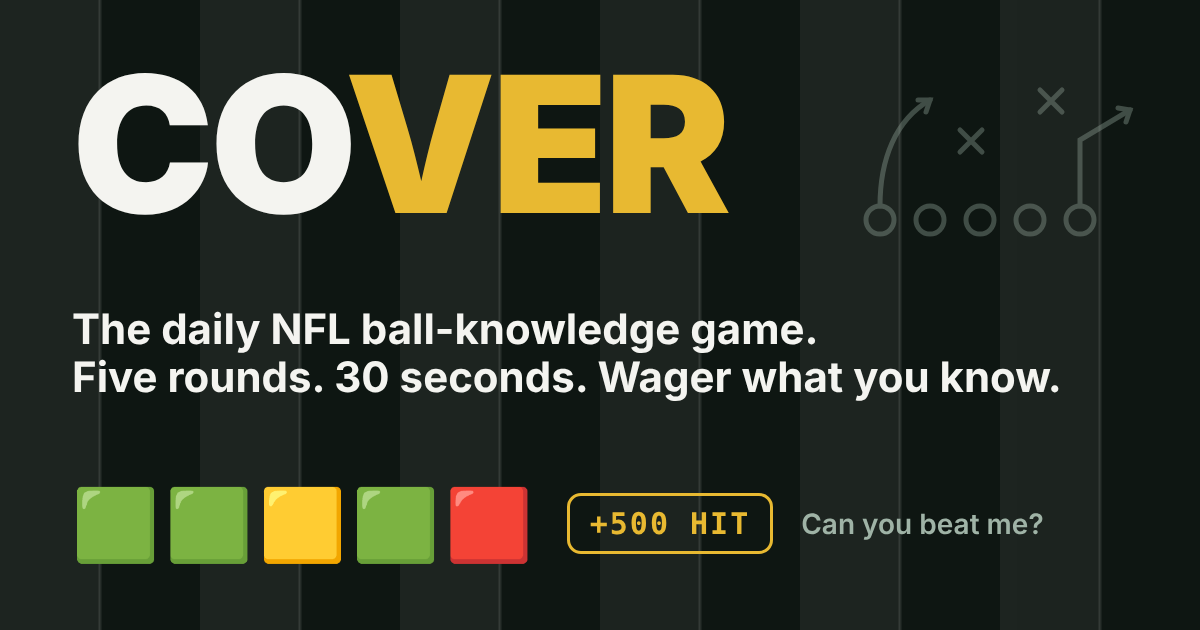
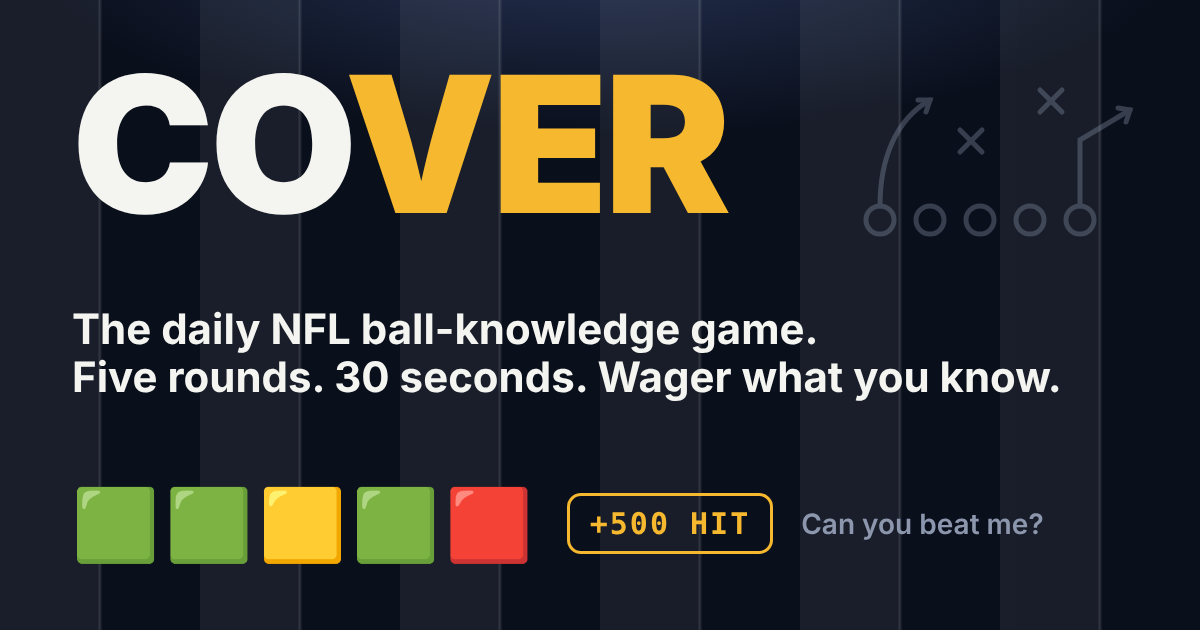
Prime Time redesign: navy/gold/red, three-column desktop layout, ticker, big topic cards
Claude-Session: https://claude.ai/code/session_01CGM4XPc1bFy9Xcp8oz63WN

Changed region(s): [[0.185, 0.0, 0.8325, 0.1508], [0.6475, 0.8143, 0.8633, 0.8444]]

diff --git a/index.html b/index.html
@@ -61,25 +61,33 @@ window.COVER_CONFIG = { supabaseUrl: "https://koiuilmpihaflgnlitxl.supabase.co",
 <style>
 /* Layout: stadium scoreboard with the Ball Knowledge Score, then the Daily Five (and on game days the Slate), then the leaderboard */
 :root{
-  --bg:#E9ECE4; --slip:#FFFFFF; --ink:#141A15; --muted:#5A645C; --line:#D3D8CD;
-  --turf:#1E6B3B; --turf-ink:#F4F7F1; --gold:#9A6F00; --gold-bg:#F3D27A; --gold-ink:#2B1F00; --red:#C2352E; --blue:#2F5FB8; --amber:#B7791F;
-  --board:#132018; --board-ink:#F1F4EE; --board-dim:#8FA394; --board-line:#2E3D33; --board-gold:#EDBC45;
+  --bg:#0A0F1C; --slip:#121A2B; --slip2:#0E1524; --ink:#F2F4F8; --muted:#8C97AD; --line:#24304A;
+  --turf:#2BD27B; --turf-ink:#04140B; --gold:#F5B82E; --gold-bg:#F5B82E; --gold-ink:#1F1500; --red:#FF4D5E; --blue:#4C8DFF; --amber:#FFB547;
+  --board:#070B16; --board-ink:#F2F4F8; --board-dim:#7D89A3; --board-line:#1E2A42; --board-gold:#F5B82E; color-scheme:dark;
   --display:"Big Shoulders Display", "Impact", "Arial Narrow", sans-serif;
   --body:"Barlow", system-ui, -apple-system, "Segoe UI", sans-serif;
   --mono:"JetBrains Mono", ui-monospace, "Courier New", monospace;
 }
+/* Prime Time is a night-game look in both light and dark system modes */
 @media (prefers-color-scheme: dark){ :root:not([data-theme="light"]){
-  --bg:#0D130F; --slip:#151D17; --ink:#E9EEE8; --muted:#97A59A; --line:#27332A;
-  --turf:#3E9E62; --turf-ink:#07120A; --gold:#EDBC45; --gold-bg:#EDBC45; --gold-ink:#251A00; --red:#EE6B62; --blue:#7FA6F0; --amber:#E9B04F;
-  --board:#060A07; --board-ink:#F1F4EE; --board-dim:#7F9384; --board-line:#22302A; --board-gold:#EDBC45; color-scheme:dark }}
-:root[data-theme="dark"]{
-  --bg:#0D130F; --slip:#151D17; --ink:#E9EEE8; --muted:#97A59A; --line:#27332A;
-  --turf:#3E9E62; --turf-ink:#07120A; --gold:#EDBC45; --gold-bg:#EDBC45; --gold-ink:#251A00; --red:#EE6B62; --blue:#7FA6F0; --amber:#E9B04F;
-  --board:#060A07; --board-ink:#F1F4EE; --board-dim:#7F9384; --board-line:#22302A; --board-gold:#EDBC45; color-scheme:dark }
+  --bg:#0A0F1C; --slip:#121A2B; --slip2:#0E1524; --ink:#F2F4F8; --muted:#8C97AD; --line:#24304A;
+  --turf:#2BD27B; --turf-ink:#04140B; --gold:#F5B82E; --gold-bg:#F5B82E; --gold-ink:#1F1500; --red:#FF4D5E; --blue:#4C8DFF; --amber:#FFB547;
+  --board:#070B16; --board-ink:#F2F4F8; --board-dim:#7D89A3; --board-line:#1E2A42; --board-gold:#F5B82E; color-scheme:dark;}}
+:root[data-theme="dark"],:root[data-theme="light"]{
+  --bg:#0A0F1C; --slip:#121A2B; --slip2:#0E1524; --ink:#F2F4F8; --muted:#8C97AD; --line:#24304A;
+  --turf:#2BD27B; --turf-ink:#04140B; --gold:#F5B82E; --gold-bg:#F5B82E; --gold-ink:#1F1500; --red:#FF4D5E; --blue:#4C8DFF; --amber:#FFB547;
+  --board:#070B16; --board-ink:#F2F4F8; --board-dim:#7D89A3; --board-line:#1E2A42; --board-gold:#F5B82E; color-scheme:dark;}
 
 *{box-sizing:border-box}
 [hidden]{display:none!important}
-body{background:var(--bg);color:var(--ink);font-family:var(--body);font-size:16px;line-height:1.5;
+body{background:
+    radial-gradient(ellipse 70% 38% at 50% -6%, rgba(122,160,255,.20), transparent 70%),
+    radial-gradient(ellipse 30% 30% at 8% -4%, rgba(255,255,255,.08), transparent 70%),
+    radial-gradient(ellipse 30% 30% at 92% -4%, rgba(255,255,255,.08), transparent 70%),
+    repeating-linear-gradient(90deg, transparent 0 159px, rgba(255,255,255,.045) 159px 161px),
+    repeating-linear-gradient(90deg, rgba(255,255,255,.014) 0 80px, transparent 80px 160px),
+    var(--bg);
+  min-height:100vh;color:var(--ink);font-family:var(--body);font-size:16px;line-height:1.5;
   padding-left:max(16px, env(safe-area-inset-left, 0px));padding-right:max(16px, env(safe-area-inset-right, 0px));padding-block:18px 56px}
 .wrap{max-width:620px;margin:0 auto;display:flex;flex-direction:column;gap:16px}
 .board{background:var(--board);color:var(--board-ink);border-radius:16px;padding:16px;display:grid;gap:12px;position:relative;overflow:hidden}
@@ -108,26 +116,26 @@ h1 span{color:var(--board-gold)}
 .cell small{display:block;font:700 10px var(--body);letter-spacing:.16em;text-transform:uppercase;color:var(--board-dim)}
 .cell b{font:700 clamp(16px,4.6vw,21px) var(--mono);font-variant-numeric:tabular-nums;color:var(--board-ink);white-space:nowrap}
 .disclaim{margin:0;font-size:12px;color:var(--board-dim)}
-.tabs{display:flex;gap:6px;background:var(--slip);border:1px solid var(--line);border-radius:12px;padding:4px}
+.tabs{display:flex;gap:6px;background:var(--slip2);border:1px solid var(--line);border-radius:12px;padding:4px}
 .tab{flex:1;appearance:none;border:0;background:transparent;color:var(--muted);border-radius:9px;padding:10px;font:700 15px var(--body);cursor:pointer}
-.tab[aria-selected="true"]{background:var(--ink);color:var(--bg)}
-.card{background:var(--slip);border:1px solid var(--line);border-radius:16px;padding:18px 16px;display:grid;gap:14px}
+.tab[aria-selected="true"]{background:var(--gold-bg);color:var(--gold-ink)}
+.card{background:linear-gradient(180deg,var(--slip),var(--slip2));border:1px solid var(--line);box-shadow:0 10px 30px rgba(0,0,0,.25);border-radius:16px;padding:18px 16px;display:grid;gap:14px}
 .card h2{font-family:var(--display);font-weight:900;font-size:30px;text-transform:uppercase;margin:0;line-height:1}
 .eyebrow{font:700 12px var(--mono);letter-spacing:.14em;text-transform:uppercase;color:var(--muted);display:flex;justify-content:space-between;gap:8px;flex-wrap:wrap}
 .pips{display:flex;gap:5px}
 .pip{width:22px;height:6px;border-radius:3px;background:var(--line)}
-.pip.g{background:var(--turf)} .pip.y{background:var(--amber)} .pip.r{background:var(--red)} .pip.now{background:var(--ink)}
+.pip.g{background:var(--turf)} .pip.y{background:var(--amber)} .pip.r{background:var(--red)} .pip.now{background:var(--gold)}
 .cat{font-family:var(--display);font-weight:900;font-size:clamp(40px,12vw,64px);line-height:.9;text-transform:uppercase;text-align:center;margin:6px 0;letter-spacing:.01em}
 .catsub{text-align:center;color:var(--muted);margin:0}
 .wagers{display:grid;grid-template-columns:repeat(5,1fr);gap:6px}
 .wager{appearance:none;border:2px solid var(--line);background:var(--bg);color:var(--ink);border-radius:12px;padding:12px 2px;font:700 clamp(14px,4vw,18px) var(--mono);cursor:pointer;font-variant-numeric:tabular-nums}
 @media (hover:hover){.wager:hover:not(:disabled){border-color:var(--ink)}}
-.wager.max{border-color:var(--gold);color:var(--gold)}
+.wager.max{border-color:var(--gold);color:var(--gold);box-shadow:0 0 0 1px var(--gold) inset}
 .wager:disabled{opacity:.25;cursor:default;text-decoration:line-through}
-.wager[aria-pressed="true"]{background:var(--ink);color:var(--bg);border-color:var(--ink)}
+.wager[aria-pressed="true"]{background:var(--gold-bg);color:var(--gold-ink);border-color:var(--gold-bg)}
 .q{font-family:var(--display);font-weight:700;font-size:clamp(24px,6.5vw,30px);line-height:1.1;margin:0;text-wrap:balance}
 .timer{height:8px;border-radius:4px;background:var(--line);overflow:hidden}
-.timer i{display:block;height:100%;width:100%;background:var(--turf);transform-origin:left}
+.timer i{display:block;height:100%;width:100%;background:var(--ink);transform-origin:left}
 .timer i.low{background:var(--red)}
 .tleft{font:700 13px var(--mono);color:var(--muted);text-align:right;font-variant-numeric:tabular-nums}
 .opts{display:grid;gap:8px}
@@ -143,7 +151,7 @@ h1 span{color:var(--board-gold)}
 .card,.card>*{min-width:0}
 html,body{max-width:100%;overflow-x:hidden}
 .numrow input{flex:1 1 0;width:0;min-width:0;font:700 26px var(--mono);text-align:center;padding:12px;border-radius:12px;border:2px solid var(--line);background:var(--bg);color:var(--ink)}
-.numrow input:focus{outline:none;border-color:var(--turf)}
+.numrow input:focus{outline:none;border-color:var(--gold)}
 .verdict{font-family:var(--display);font-weight:900;font-size:clamp(34px,10vw,48px);text-transform:uppercase;line-height:.95;margin:0;text-align:center}
 .verdict.g{color:var(--turf)} .verdict.y{color:var(--amber)} .verdict.r{color:var(--red)}
 .roast{text-align:center;margin:0;font-weight:600}
@@ -153,7 +161,7 @@ html,body{max-width:100%;overflow-x:hidden}
 .crowdline{font-size:14px;color:var(--muted);margin:0;text-align:center}
 .btns{display:flex;gap:8px;flex-wrap:wrap;justify-content:center}
 .btn{appearance:none;border:1px solid var(--line);background:transparent;color:var(--ink);border-radius:12px;padding:13px 20px;font:700 16px var(--body);cursor:pointer}
-.btn.primary{background:var(--turf);border-color:var(--turf);color:var(--turf-ink)}
+.btn.primary{background:var(--gold-bg);border-color:var(--gold-bg);color:var(--gold-ink)}
 .btn.gold{background:var(--gold-bg);border-color:var(--gold-bg);color:var(--gold-ink)}
 .btn.big{font-size:19px;padding:16px 26px;width:100%}
 .btn:disabled{opacity:.4;cursor:default}
@@ -173,7 +181,7 @@ html,body{max-width:100%;overflow-x:hidden}
 .games{display:grid;gap:12px}
 .game{background:var(--slip);border:1px solid var(--line);border-radius:14px;padding:14px;display:grid;gap:10px}
 .ghead{display:flex;justify-content:space-between;gap:10px;flex-wrap:wrap;font-size:13px;color:var(--muted)}
-.ghead .tag{font:700 11px var(--mono);letter-spacing:.1em;text-transform:uppercase;color:var(--turf)}
+.ghead .tag{font:700 11px var(--mono);letter-spacing:.1em;text-transform:uppercase;color:var(--red)}
 .team{display:grid;grid-template-columns:1fr auto auto;gap:10px;align-items:center;min-width:0}
 .team .nm{min-width:0}
 .team .nm b{font-family:var(--display);font-weight:700;font-size:22px;text-transform:uppercase;line-height:1;display:block;overflow-wrap:anywhere}
@@ -194,9 +202,9 @@ html,body{max-width:100%;overflow-x:hidden}
 .crowd .bar{display:flex;height:26px;border-radius:8px;overflow:hidden;font:700 12px var(--mono);font-variant-numeric:tabular-nums}
 .crowd .bar span{display:flex;align-items:center;padding:0 8px;white-space:nowrap;min-width:0;overflow:hidden}
 .crowd .bar .a{background:var(--blue);color:#fff}
-.crowd .bar .h{background:var(--turf);color:var(--turf-ink);justify-content:flex-end}
+.crowd .bar .h{background:#7A5CFF;color:#fff;justify-content:flex-end}
 .crowd .note{color:var(--muted)} .crowd .note b{color:var(--ink)}
-.callout{font-weight:700} .callout.fade{color:var(--red)} .callout.with{color:var(--turf)}
+.callout{font-weight:700} .callout.fade{color:var(--red)} .callout.with{color:var(--blue)}
 .result{border-top:1px dashed var(--line);padding-top:10px;display:grid;gap:4px;font-size:14px}
 .result .row{display:flex;justify-content:space-between;gap:10px;font-variant-numeric:tabular-nums}
 .result .row span:last-child{font-family:var(--mono);font-weight:700}
@@ -220,6 +228,7 @@ table.lb td.t{color:var(--muted);font-size:13px}
 textarea.copybox{width:100%;font:14px var(--mono);border-radius:8px;border:1px solid var(--line);background:var(--bg);color:var(--ink);padding:8px}
 .next{font:500 13px var(--mono);color:var(--muted);margin:0;text-align:center}
 .foot{font-size:12px;color:var(--muted);margin:0}
+.foot a{color:var(--gold)}
 .pop{animation:pop .45s ease}
 @keyframes pop{0%{transform:scale(.85);opacity:0}60%{transform:scale(1.06);opacity:1}100%{transform:scale(1)}}
 .shake{animation:shake .4s}
@@ -241,13 +250,13 @@ textarea.copybox{width:100%;font:14px var(--mono);border-radius:8px;border:1px s
 .mus{display:flex;gap:10px;overflow-x:auto;padding-bottom:6px;scroll-snap-type:x mandatory}
 .mu{flex:0 0 172px;scroll-snap-align:start;border:1px solid var(--line);border-radius:12px;padding:10px;display:grid;gap:6px;background:var(--bg)}
 .mu .when{display:flex;justify-content:space-between;gap:6px;font:700 11px var(--mono);letter-spacing:.06em;text-transform:uppercase;color:var(--muted)}
-.mu .when .tg{color:var(--turf)}
+.mu .when .tg{color:var(--red)}
 .mu .tm{display:grid;grid-template-columns:auto 1fr auto;gap:8px;align-items:baseline;font-variant-numeric:tabular-nums}
 .mu .tm b{font-family:var(--display);font-weight:900;font-size:22px;line-height:1}
 .mu .tm small{color:var(--muted);font-size:12px}
 .mu .tm span:last-child{font:700 13px var(--mono)}
-.mu .tm.fav b{color:var(--turf)}
-.mu.tonight{border-color:var(--turf)}
+.mu .tm.fav b{color:var(--gold)}
+.mu.tonight{border-color:var(--red)}
 .recap{display:grid;gap:10px}
 .rg{border:1px solid var(--line);border-radius:12px;padding:10px 12px;display:grid;gap:4px;font-size:14px;font-variant-numeric:tabular-nums}
 .rg .top{display:flex;justify-content:space-between;gap:10px;align-items:baseline}
@@ -258,11 +267,48 @@ textarea.copybox{width:100%;font:14px var(--mono);border-radius:8px;border:1px s
 .rg.hit{border-color:var(--turf)} .rg.hit .pts{color:var(--turf)}
 .recap .sum{display:flex;justify-content:space-between;align-items:baseline;gap:10px;border-top:1px dashed var(--line);padding-top:10px}
 .recap .sum b{font-family:var(--display);font-weight:900;font-size:40px;line-height:1}
+/* ticker */
+.ticker{position:relative;width:100vw;margin:-18px 0 16px calc(50% - 50vw);background:#05080F;border-bottom:1px solid var(--board-line);overflow:hidden;height:38px;display:flex;align-items:center}
+.ticker .lbl{position:relative;z-index:2;flex:0 0 auto;height:100%;display:flex;align-items:center;padding:0 12px;background:var(--red);color:#fff;font:800 12px var(--mono);letter-spacing:.14em;text-transform:uppercase}
+.ticker .vp{flex:1;overflow:hidden;height:100%;display:flex;align-items:center;-webkit-mask-image:linear-gradient(90deg,transparent,#000 4%,#000 96%,transparent);mask-image:linear-gradient(90deg,transparent,#000 4%,#000 96%,transparent)}
+.ticker .track{display:flex;gap:28px;white-space:nowrap;animation:tick var(--tick-dur,60s) linear infinite;padding-left:20px;font:600 13px var(--mono);color:var(--board-dim);font-variant-numeric:tabular-nums}
+.ticker .track b{color:var(--ink);font-weight:700} .ticker .track .g{color:var(--gold)} .ticker .track .w{color:var(--turf)} .ticker .track .x{color:var(--red)}
+@keyframes tick{from{transform:translateX(0)}to{transform:translateX(-50%)}}
+/* three columns on wide screens; one column on phones */
+.col{display:contents}
+.board{order:1} #handleBox{order:2} .tabs{order:3} #home{order:4} #daily{order:5} #slate{order:6} #rankBox{order:7} #muBox{order:8} #lbCard{order:9} .foots{order:10}
+@media (max-width:1099px){ body:not(.tab-home) .sideonly{display:none} }
+@media (min-width:1100px){
+  .wrap{max-width:1360px;display:grid;grid-template-columns:330px minmax(0,1fr) 360px;gap:20px;align-items:start}
+  .col{display:flex;flex-direction:column;gap:16px;min-width:0}
+  .col.side{position:sticky;top:16px}
+  body:not(.tab-home) #muBox{display:none}
+  .col.mid{max-width:720px;width:100%;justify-self:center}
+  .bks .num{font-size:52px} h1{font-size:60px}
+  .q{font-size:36px} .opt{font-size:19px;padding:16px}
+}
+/* topic card */
+.topic{--c:var(--blue);display:grid;justify-items:center;gap:6px;text-align:center;padding:18px 10px 16px;border-radius:14px;
+  background:radial-gradient(ellipse 80% 90% at 50% 0%, color-mix(in srgb, var(--c) 26%, transparent), transparent 75%);border:1px solid color-mix(in srgb, var(--c) 45%, transparent)}
+.topic .ic{width:64px;height:64px;border-radius:18px;display:grid;place-items:center;background:color-mix(in srgb, var(--c) 18%, transparent);color:var(--c)}
+.topic .ic svg{width:38px;height:38px}
+.topic .cat{color:var(--ink);font-size:clamp(52px,15vw,96px);margin:2px 0 0;text-shadow:0 2px 24px color-mix(in srgb, var(--c) 45%, transparent)}
+.topic .catsub{font-size:17px;color:var(--ink);opacity:.85;max-width:34ch}
+.topic .rec{font:700 13px var(--mono);letter-spacing:.06em;text-transform:uppercase;color:var(--c);margin:4px 0 0}
+.qhead{--c:var(--blue);display:flex;align-items:center;gap:10px;min-width:0}
+.qhead .ic{flex:0 0 auto;width:40px;height:40px;border-radius:12px;display:grid;place-items:center;background:color-mix(in srgb, var(--c) 18%, transparent);color:var(--c)}
+.qhead .ic svg{width:24px;height:24px}
+.qhead .nm{font-family:var(--display);font-weight:900;font-size:clamp(26px,7vw,34px);text-transform:uppercase;line-height:1;color:var(--c);min-width:0;overflow-wrap:anywhere}
+.qhead .wtag{font-size:14px;padding:4px 8px}
+.qhead .tleft{margin-left:auto;font-size:18px;color:var(--ink)}
+@media (prefers-reduced-motion: reduce){ .ticker .track{animation:none} }
 @media (prefers-reduced-motion: reduce){ .pop,.shake{animation:none} .bks .meter i{transition:none} }
 @media (max-width:420px){ .team input,.team .final{width:54px;font-size:19px} .ml{min-width:50px;font-size:13px} .team .nm b{font-size:19px} .opt{padding:12px;font-size:16px} }
 </style>
 
+<div class="ticker" aria-label="Lines and scores"><span class="lbl">Live</span><div class="vp"><div class="track" id="tick"></div></div></div>
 <div class="wrap">
+ <div class="col side left">
   <section class="board" aria-label="Scoreboard">
     <svg class="field" viewBox="0 0 600 320" preserveAspectRatio="xMidYMid slice" aria-hidden="true"><rect class="stripe" x="0" y="0" width="50" height="320"/><rect class="stripe" x="100" y="0" width="50" height="320"/><rect class="stripe" x="200" y="0" width="50" height="320"/><rect class="stripe" x="300" y="0" width="50" height="320"/><rect class="stripe" x="400" y="0" width="50" height="320"/><rect class="stripe" x="500" y="0" width="50" height="320"/><rect class="stripe" x="600" y="0" width="50" height="320"/><line class="yl" x1="0" y1="0" x2="0" y2="320"/><line class="yl" x1="50" y1="0" x2="50" y2="320"/><line class="yl" x1="100" y1="0" x2="100" y2="320"/><line class="yl" x1="150" y1="0" x2="150" y2="320"/><line class="yl" x1="200" y1="0" x2="200" y2="320"/><line class="yl" x1="250" y1="0" x2="250" y2="320"/><line class="yl" x1="300" y1="0" x2="300" y2="320"/><line class="yl" x1="350" y1="0" x2="350" y2="320"/><line class="yl" x1="400" y1="0" x2="400" y2="320"/><line class="yl" x1="450" y1="0" x2="450" y2="320"/><line class="yl" x1="500" y1="0" x2="500" y2="320"/><line class="yl" x1="550" y1="0" x2="550" y2="320"/><line class="yl" x1="600" y1="0" x2="600" y2="320"/><line class="hash" x1="5" y1="104" x2="5" y2="112"/><line class="hash" x1="5" y1="208" x2="5" y2="216"/><line class="hash" x1="15" y1="104" x2="15" y2="112"/><line class="hash" x1="15" y1="208" x2="15" y2="216"/><line class="hash" x1="25" y1="104" x2="25" y2="112"/><line class="hash" x1="25" y1="208" x2="25" y2="216"/><line class="hash" x1="35" y1="104" x2="35" y2="112"/><line class="hash" x1="35" y1="208" x2="35" y2="216"/><line class="hash" x1="45" y1="104" x2="45" y2="112"/><line class="hash" x1="45" y1="208" x2="45" y2="216"/><line class="hash" x1="55" y1="104" x2="55" y2="112"/><line class="hash" x1="55" y1="208" x2="55" y2="216"/><line class="hash" x1="65" y1="104" x2="65" y2="112"/><line class="hash" x1="65" y1="208" x2="65" y2="216"/><line class="hash" x1="75" y1="104" x2="75" y2="112"/><line class="hash" x1="75" y1="208" x2="75" y2="216"/><line class="hash" x1="85" y1="104" x2="85" y2="112"/><line class="hash" x1="85" y1="208" x2="85" y2="216"/><line class="hash" x1="95" y1="104" x2="95" y2="112"/><line class="hash" x1="95" y1="208" x2="95" y2="216"/><line class="hash" x1="105" y1="104" x2="105" y2="112"/><line class="hash" x1="105" y1="208" x2="105" y2="216"/><line class="hash" x1="115" y1="104" x2="115" y2="112"/><line class="hash" x1="115" y1="208" x2="115" y2="216"/><line class="hash" x1="125" y1="104" x2="125" y2="112"/><line class="hash" x1="125" y1="208" x2="125" y2="216"/><line class="hash" x1="135" y1="104" x2="135" y2="112"/><line class="hash" x1="135" y1="208" x2="135" y2="216"/><line class="hash" x1="145" y1="104" x2="145" y2="112"/><line class="hash" x1="145" y1="208" x2="145" y2="216"/><line class="hash" x1="155" y1="104" x2="155" y2="112"/><line class="hash" x1="155" y1="208" x2="155" y2="216"/><line class="hash" x1="165" y1="104" x2="165" y2="112"/><line class="hash" x1="165" y1="208" x2="165" y2="216"/><line class="hash" x1="175" y1="104" x2="175" y2="112"/><line class="hash" x1="175" y1="208" x2="175" y2="216"/><line class="hash" x1="185" y1="104" x2="185" y2="112"/><line class="hash" x1="185" y1="208" x2="185" y2="216"/><line class="hash" x1="195" y1="104" x2="195" y2="112"/><line class="hash" x1="195" y1="208" x2="195" y2="216"/><line class="hash" x1="205" y1="104" x2="205" y2="112"/><line class="hash" x1="205" y1="208" x2="205" y2="216"/><line class="hash" x1="215" y1="104" x2="215" y2="112"/><line class="hash" x1="215" y1="208" x2="215" y2="216"/><line class="hash" x1="225" y1="104" x2="225" y2="112"/><line class="hash" x1="225" y1="208" x2="225" y2="216"/><line class="hash" x1="235" y1="104" x2="235" y2="112"/><line class="hash" x1="235" y1="208" x2="235" y2="216"/><line class="hash" x1="245" y1="104" x2="245" y2="112"/><line class="hash" x1="245" y1="208" x2="245" y2="216"/><line class="hash" x1="255" y1="104" x2="255" y2="112"/><line class="hash" x1="255" y1="208" x2="255" y2="216"/><line class="hash" x1="265" y1="104" x2="265" y2="112"/><line class="hash" x1="265" y1="208" x2="265" y2="216"/><line class="hash" x1="275" y1="104" x2="275" y2="112"/><line class="hash" x1="275" y1="208" x2="275" y2="216"/><line class="hash" x1="285" y1="104" x2="285" y2="112"/><line class="hash" x1="285" y1="208" x2="285" y2="216"/><line class="hash" x1="295" y1="104" x2="295" y2="112"/><line class="hash" x1="295" y1="208" x2="295" y2="216"/><line class="hash" x1="305" y1="104" x2="305" y2="112"/><line class="hash" x1="305" y1="208" x2="305" y2="216"/><line class="hash" x1="315" y1="104" x2="315" y2="112"/><line class="hash" x1="315" y1="208" x2="315" y2="216"/><line class="hash" x1="325" y1="104" x2="325" y2="112"/><line class="hash" x1="325" y1="208" x2="325" y2="216"/><line class="hash" x1="335" y1="104" x2="335" y2="112"/><line class="hash" x1="335" y1="208" x2="335" y2="216"/><line class="hash" x1="345" y1="104" x2="345" y2="112"/><line class="hash" x1="345" y1="208" x2="345" y2="216"/><line class="hash" x1="355" y1="104" x2="355" y2="112"/><line class="hash" x1="355" y1="208" x2="355" y2="216"/><line class="hash" x1="365" y1="104" x2="365" y2="112"/><line class="hash" x1="365" y1="208" x2="365" y2="216"/><line class="hash" x1="375" y1="104" x2="375" y2="112"/><line class="hash" x1="375" y1="208" x2="375" y2="216"/><line class="hash" x1="385" y1="104" x2="385" y2="112"/><line class="hash" x1="385" y1="208" x2="385" y2="216"/><line class="hash" x1="395" y1="104" x2="395" y2="112"/><line class="hash" x1="395" y1="208" x2="395" y2="216"/><line class="hash" x1="405" y1="104" x2="405" y2="112"/><line class="hash" x1="405" y1="208" x2="405" y2="216"/><line class="hash" x1="415" y1="104" x2="415" y2="112"/><line class="hash" x1="415" y1="208" x2="415" y2="216"/><line class="hash" x1="425" y1="104" x2="425" y2="112"/><line class="hash" x1="425" y1="208" x2="425" y2="216"/><line class="hash" x1="435" y1="104" x2="435" y2="112"/><line class="hash" x1="435" y1="208" x2="435" y2="216"/><line class="hash" x1="445" y1="104" x2="445" y2="112"/><line class="hash" x1="445" y1="208" x2="445" y2="216"/><line class="hash" x1="455" y1="104" x2="455" y2="112"/><line class="hash" x1="455" y1="208" x2="455" y2="216"/><line class="hash" x1="465" y1="104" x2="465" y2="112"/><line class="hash" x1="465" y1="208" x2="465" y2="216"/><line class="hash" x1="475" y1="104" x2="475" y2="112"/><line class="hash" x1="475" y1="208" x2="475" y2="216"/><line class="hash" x1="485" y1="104" x2="485" y2="112"/><line class="hash" x1="485" y1="208" x2="485" y2="216"/><line class="hash" x1="495" y1="104" x2="495" y2="112"/><line class="hash" x1="495" y1="208" x2="495" y2="216"/><line class="hash" x1="505" y1="104" x2="505" y2="112"/><line class="hash" x1="505" y1="208" x2="505" y2="216"/><line class="hash" x1="515" y1="104" x2="515" y2="112"/><line class="hash" x1="515" y1="208" x2="515" y2="216"/><line class="hash" x1="525" y1="104" x2="525" y2="112"/><line class="hash" x1="525" y1="208" x2="525" y2="216"/><line class="hash" x1="535" y1="104" x2="535" y2="112"/><line class="hash" x1="535" y1="208" x2="535" y2="216"/><line class="hash" x1="545" y1="104" x2="545" y2="112"/><line class="hash" x1="545" y1="208" x2="545" y2="216"/><line class="hash" x1="555" y1="104" x2="555" y2="112"/><line class="hash" x1="555" y1="208" x2="555" y2="216"/><line class="hash" x1="565" y1="104" x2="565" y2="112"/><line class="hash" x1="565" y1="208" x2="565" y2="216"/><line class="hash" x1="575" y1="104" x2="575" y2="112"/><line class="hash" x1="575" y1="208" x2="575" y2="216"/><line class="hash" x1="585" y1="104" x2="585" y2="112"/><line class="hash" x1="585" y1="208" x2="585" y2="216"/><line class="hash" x1="595" y1="104" x2="595" y2="112"/><line class="hash" x1="595" y1="208" x2="595" y2="216"/><text x="50" y="296" text-anchor="middle">10</text><text x="100" y="296" text-anchor="middle">20</text><text x="150" y="296" text-anchor="middle">30</text><text x="200" y="296" text-anchor="middle">40</text><text x="250" y="296" text-anchor="middle">50</text><text x="300" y="296" text-anchor="middle">40</text><text x="350" y="296" text-anchor="middle">30</text><text x="400" y="296" text-anchor="middle">20</text><text x="450" y="296" text-anchor="middle">10</text></svg>
     <div class="board-top">
@@ -283,6 +329,9 @@ textarea.copybox{width:100%;font:14px var(--mono);border-radius:8px;border:1px s
     </div>
     <p class="disclaim">Free to play. Play money only, no real wagers.</p>
   </section>
+  <section id="rankBox" class="sideonly"></section>
+ </div>
+ <div class="col mid">
   <section id="handleBox"></section>
   <nav class="tabs" id="tabs" role="tablist">
     <button class="tab" role="tab" id="tabHome" aria-selected="true">Home</button>
@@ -292,12 +341,16 @@ textarea.copybox{width:100%;font:14px var(--mono);border-radius:8px;border:1px s
   <section id="home" style="display:grid;gap:16px"></section>
   <section id="daily" aria-live="polite" hidden></section>
   <section id="slate" hidden></section>
-  <section class="card" id="lbCard">
+  <section id="muBox" class="sideonly"></section>
+ </div>
+ <div class="col side right">
+  <section class="card sideonly" id="lbCard">
     <h2>Leaderboard</h2>
     <div class="lbwrap" id="lb"><p class="pending">Loading…</p></div>
   </section>
-  <p class="foot" id="foot"></p>
-  <p class="foot"><a href="terms.html">Terms &amp; privacy</a> · Free to play, ages 13+. No real money, no real bets.</p>
+  <div class="foots" style="display:grid;gap:6px"><p class="foot" id="foot"></p>
+  <p class="foot"><a href="terms.html">Terms &amp; privacy</a> · Free to play, ages 13+. No real money, no real bets.</p></div>
+ </div>
 </div>
 
 <script>
@@ -461,6 +514,7 @@ const QUESTIONS=[
 const store={get(k,d){try{const v=localStorage.getItem(k);return v?JSON.parse(v):d;}catch(e){return d;}},set(k,v){try{localStorage.setItem(k,JSON.stringify(v));}catch(e){}}};
 const esc=s=>String(s).replace(/[&<>"]/g,c=>({"&":"&amp;","<":"&lt;",">":"&gt;",'"':"&quot;"}[c]));
 const $=id=>document.getElementById(id);
+const RES={hit:"✓",push:"push",miss:"✗"};
 const pad=n=>String(n).padStart(2,"0");
 const now=new Date();
 const keyOf=d=>d.getFullYear()+"-"+pad(d.getMonth()+1)+"-"+pad(d.getDate());
@@ -479,6 +533,27 @@ function hash(s){let h=2166136261;for(const c of String(s)){h^=c.charCodeAt(0);h
 const validPick=p=>Array.isArray(p)&&p.length===2&&p.every(v=>v!==""&&v!=null&&isFinite(+v))?[+p[0],+p[1]]:null;
 const dayNum=k=>Math.round((new Date(k+"T12:00:00")-new Date(Q_START+"T12:00:00"))/864e5);
 
+const CATCOLOR={duel:"#4C8DFF",scored:"#FF4D5E",match:"#B57BFF",fact:"#B57BFF",cap:"#FF8A3D",long:"#3DD6F5",defense:"#A3B1FF",closest:"#FF77C8",ou:"#FFB547",detective:"#3DD6F5"};
+const ICP={duel:'<path d="M6 20V11M12 20V4M18 20v-6"/><path d="M3 20h18"/>',
+ scored:'<ellipse cx="12" cy="12" rx="9.5" ry="5.6" transform="rotate(-35 12 12)"/><path d="M9.6 14.4l4.8-4.8M10.6 11.4l2 2M12.1 9.9l2 2"/>',
+ match:'<path d="M9 15l6-6"/><path d="M10.5 6.5l1.2-1.2a4 4 0 015.7 5.7l-1.2 1.2M13.5 17.5l-1.2 1.2a4 4 0 01-5.7-5.7l1.2-1.2"/>',
+ cap:'<path d="M4 15.5c0-5 3.6-8.5 8-8.5s8 3.5 8 8.5"/><path d="M2.5 15.5h19l-2 3h-15z"/><path d="M12 7V4.5"/>',
+ long:'<path d="M3 12h18M17 7.5l4.5 4.5-4.5 4.5M7 7.5L2.5 12 7 16.5"/>',
+ defense:'<path d="M12 3l8 3v6c0 5-3.4 8.2-8 9.3C7.4 20.2 4 17 4 12V6z"/><path d="M8.5 12l2.5 2.5 4.5-5"/>',
+ closest:'<circle cx="12" cy="12" r="8.5"/><circle cx="12" cy="12" r="4.5"/><circle cx="12" cy="12" r="1" fill="currentColor"/>',
+ ou:'<path d="M8 20V5M4 9l4-4 4 4M16 4v15M12 15l4 4 4-4"/>',
+ fact:'<circle cx="11" cy="11" r="6.5"/><path d="M20.5 20.5l-4.8-4.8"/>',detective:'<circle cx="11" cy="11" r="6.5"/><path d="M20.5 20.5l-4.8-4.8"/>'};
+const catIcon=k=>'<svg viewBox="0 0 24 24" fill="none" stroke="currentColor" stroke-width="2" stroke-linecap="round" stroke-linejoin="round" aria-hidden="true">'+(ICP[k]||ICP.duel)+'</svg>';
+function catRecord(k){ let hit=0,tot=0; for(const [d,rounds] of Object.entries(me.days||{})){ if(!Array.isArray(rounds)||d===TODAY) continue; const dn=dayNum(d); if(!(dn>=0)) continue;
+  rounds.forEach((x,i)=>{ const q=QUESTIONS[(dn*5+i)%QUESTIONS.length]; if(x&&q&&q.k===k){ tot++; if(+x.b>=90) hit++; } }); } return {hit,tot}; }
+function renderTicker(){ const el=$("tick"); if(!el) return; const it=[];
+  SLATE.filter(g=>!RESULTS[g[0]]&&new Date(g[1]).getTime()>Date.now()-3.5*3600e3).sort((a,b)=>a[1]<b[1]?-1:1).slice(0,10).forEach(g=>{ const o=oddsOf(g[0]); const d=new Date(g[1]);
+    it.push('<span><b>'+esc(g[2])+' @ '+esc(g[3])+'</b> '+(o?'<span class="g">'+esc(o[2])+'</span> · O/U '+esc(o[3]):'')+' · '+esc(keyOf(d)===TODAY?"Tonight":d.toLocaleDateString(undefined,{weekday:"short"}))+' '+esc(fmtTime(d))+'</span>'); });
+  SLATE.filter(g=>RESULTS[g[0]]).slice(-6).forEach(g=>{ const f=RESULTS[g[0]]; it.push('<span><span class="x">FINAL</span> <b>'+esc(g[2])+' '+f[0]+'</b> · <b>'+esc(g[3])+' '+f[1]+'</b></span>'); });
+  PAST.slice(-8).reverse().forEach(g=>{ it.push('<span><span class="x">FINAL</span> '+esc(g[1])+' '+g[3]+' · '+esc(g[2])+' '+g[4]+'</span>'); });
+  if(social==="on"){ const top=others.filter(o=>o.handle).map(o=>({h:String(o.handle).slice(0,20),r:rating(o).r})).sort((a,b)=>b.r-a.r)[0]; if(top) it.unshift('<span><span class="w">#1</span> <b>'+esc(top.h)+'</b> · '+top.r+' BKS</span>'); }
+  it.unshift('<span><span class="g">COVER</span> · Today\'s five is live</span>');
+  const html=it.join(""); el.innerHTML=html+html; el.style.setProperty("--tick-dur",Math.max(30,it.length*5)+"s"); }
 const CATS={long:"Longest Play",defense:"Defense",cap:"Spot the Cap",duel:"Stat Duel",scored:"Who Scored?",ou:"Over / Under",closest:"Closest Wins",detective:"Box Score Detective",match:"Match the Fact",fact:"Fact or Cap"};
 const CATSUB={long:"One player, one game. How long was his biggest play?",defense:"Real defensive box scores. Tackles, sacks, picks.",cap:"Three statements. Two are real. Find the fake.",duel:"Two real stat lines. One number. Pick the bigger one.",scored:"A real touchdown from this season. Name the guy.",ou:"A real stat line. Over or under?",closest:"Type a number. The closer you are, the more you get.",detective:"A real box score. Which game was it?",match:"A real player fact. Match it to the player.",fact:"True or made up? Call it."};
 const SECONDS=30, WAGERS=[1,2,3,4,5];
@@ -631,7 +706,8 @@ function dIntro(box){
 function dCategory(box){
   const q=TODAY_Q[run.i], left=leftW();
   box.innerHTML='<div class="card"><div class="eyebrow"><span>Round '+(run.i+1)+' of 5</span>'+pipsHTML()+'</div>'+
-    '<div class="cat pop">'+esc(CATS[q.k])+'</div><p class="catsub">'+esc(CATSUB[q.k])+'</p>'+
+    (function(){ const rc=catRecord(q.k); return '<div class="topic pop" style="--c:'+(CATCOLOR[q.k]||"#4C8DFF")+'"><div class="ic">'+catIcon(q.k)+'</div><div class="cat">'+esc(CATS[q.k])+'</div><p class="catsub">'+esc(CATSUB[q.k])+'</p>'+
+      '<p class="rec">'+(rc.tot?'Your record: '+rc.hit+' for '+rc.tot+(rc.tot>=3?' · '+Math.round(100*rc.hit/rc.tot)+'%':''):'First time seeing this one')+'</p></div>'; })()+
     '<div class="eyebrow"><span>Place your wager</span><span>'+(left.length===1?"Last one":left.length+" left")+'</span></div>'+
     '<div class="wagers">'+WAGERS.map(w=>'<button class="wager'+(w===5?" max":"")+'" data-w="'+w+'"'+(left.includes(w)?"":" disabled")+' aria-label="Wager plus '+w*100+'">+'+w*100+'</button>').join("")+'</div>'+
     '<p class="msg">The clock starts when you pick.</p></div>';
@@ -642,7 +718,7 @@ function dQuestion(box){
   let body;
   if(q.ans!=null) body='<form class="numrow" id="nf"><label for="nv" hidden>Your answer</label><input id="nv" size="1" type="text" inputmode="decimal" autocomplete="off" placeholder="'+esc(q.unit)+'"><button class="btn primary" type="submit">Lock</button></form>';
   else body='<div class="opts'+(q.o.length===2?" two":"")+'">'+q.o.map((o,i)=>'<button class="opt" data-i="'+i+'">'+esc(o)+'</button>').join("")+'</div>';
-  box.innerHTML='<div class="card"><div class="eyebrow"><span>'+esc(CATS[q.k])+' · <span class="wtag'+(run.w===5?" max":"")+'">+'+run.w*100+'</span></span><span class="tleft" id="tl"></span></div>'+
+  box.innerHTML='<div class="card"><div class="qhead" style="--c:'+(CATCOLOR[q.k]||"#4C8DFF")+'"><span class="ic">'+catIcon(q.k)+'</span><span class="nm">'+esc(CATS[q.k])+'</span><span class="wtag'+(run.w===5?" max":"")+'">+'+run.w*100+'</span><span class="tleft" id="tl"></span></div>'+
     '<div class="timer" aria-hidden="true"><i id="tb"></i></div><p class="q">'+esc(q.q)+'</p>'+body+'</div>';
   if(q.ans!=null){ const inp=$("nv"); inp.focus(); $("nf").onsubmit=e=>{ e.preventDefault(); const v=inp.value.replace(/[^\d.]/g,""); if(v!=="") answer(+v); }; }
   else box.querySelectorAll(".opt").forEach(b=>b.onclick=()=>answer(+b.dataset.i));
@@ -752,7 +828,6 @@ function gameHTML(x){
   return '<article class="game"><div class="ghead"><span>'+esc(fmtTime(x.start))+(lineOf(x.id)?' · '+esc(lineOf(x.id)):'')+'</span>'+(x.label?'<span class="tag">'+esc(x.label)+'</span>':'')+'</div>'+
     row("a",x.away,mlA,p[0])+row("h",x.home,mlH,p[1])+'<div class="pickline" id="pl-'+x.id+'">'+pickLineText(x)+'</div>'+lines+chips+'<div class="crowd" id="cr-'+x.id+'"></div>'+foot+'</article>';
 }
-const RES={hit:"✓",push:"push",miss:"✗"};
 function breakdown(gp,L){ let h='';
   if(gp.pk) h+='<div class="row"><span>Score call: winner · margin · total</span><span>'+gp.win+' · '+gp.spread+' · '+gp.total+'</span></div>';
   if(gp.l&&gp.l.s&&L) h+='<div class="row"><span>Spread: '+esc(L.lab[gp.l.s])+' '+RES[gp.atsR]+'</span><span>'+gp.ats+'</span></div>';
@@ -784,8 +859,9 @@ function renderCrowd(){
 
 // ---- Tabs ----
 function setTab(t){ tab=t; ["home","daily","slate"].forEach(k=>{ const b=$("tab"+k[0].toUpperCase()+k.slice(1)); if(b) b.setAttribute("aria-selected",t===k); $(k).hidden=t!==k; });
-  $("lbCard").hidden=t!=="home";
-  if(t==="slate") renderSlate(); else if(t==="daily") renderDaily(); else { clearInterval(timer); renderHome(); }
+  document.body.classList.remove("tab-home","tab-daily","tab-slate"); document.body.classList.add("tab-"+t);
+  if(t==="slate") renderSlate(); else if(t==="daily") renderDaily(); else clearInterval(timer);
+  renderHome();
   window.scrollTo&&window.scrollTo({top:0}); }
 function recapHTML(){
   const byDay={}; SLATE.forEach(g=>{ const k=keyOf(new Date(g[1])); (byDay[k]=byDay[k]||[]).push(g); });
@@ -833,11 +909,12 @@ function renderHome(){
         '<div class="tm'+(favA?" fav":"")+'"><b>'+esc(g.away)+'</b><small>'+esc(RECORDS[g.away]||"")+'</small><span>'+fmtML(mA)+'</span></div>'+
         '<div class="tm'+(favH?" fav":"")+'"><b>@'+esc(g.home)+'</b><small>'+esc(RECORDS[g.home]||"")+'</small><span>'+fmtML(mH)+'</span></div>'+(lineOf(g.id)?'<div class="when"><span>'+esc(lineOf(g.id))+'</span></div>':'')+'</div>'; }).join("")+'</div>':'<p class="pending">The next slate posts soon.</p>';
   box.innerHTML='<div class="card today">'+chalk+'<div class="eyebrow"><span>Daily Five · '+esc(fmtDay(now))+'</span><span id="hCount"></span></div><h2>'+(done?"Today's final":"Today's five")+'</h2>'+todayBody+'</div>'+
-    recapHTML()+'<div class="card"><div class="eyebrow"><span>Your rank</span><span>'+esc($("cRank").textContent)+'</span></div><h2>'+esc(tierOf(r))+'</h2>'+
-      (next?'<div class="prog" aria-hidden="true"><i style="width:'+pct.toFixed(1)+'%"></i></div><p class="pending" style="font-size:15px;margin:0">'+(next[0]-r)+' Ball Knowledge to <b>'+esc(next[1])+'</b>. A +500 that hits is worth up to about '+Math.round(6*5*(1-(0.25+0.5*r/1000)))+'.</p>':'<p class="pending" style="font-size:15px;margin:0">Top tier. Defend it.</p>')+ladder+'</div>'+
-    '<div class="card"><div class="eyebrow"><span>This week</span><span>'+(LIVE?"Game day":"")+'</span></div><h2>Upcoming matchups</h2>'+mu+
+    recapHTML();
+  $("rankBox").innerHTML='<div class="card"><div class="eyebrow"><span>Your rank</span><span>'+esc($("cRank").textContent)+'</span></div><h2>'+esc(tierOf(r))+'</h2>'+
+      (next?'<div class="prog" aria-hidden="true"><i style="width:'+pct.toFixed(1)+'%"></i></div><p class="pending" style="font-size:15px;margin:0">'+(next[0]-r)+' Ball Knowledge to <b>'+esc(next[1])+'</b>. A +500 that hits is worth up to about '+Math.round(6*5*(1-(0.25+0.5*r/1000)))+'.</p>':'<p class="pending" style="font-size:15px;margin:0">Top tier. Defend it.</p>')+ladder+'</div>';
+  $("muBox").innerHTML='<div class="card"><div class="eyebrow"><span>This week</span><span>'+(LIVE?"Game day":"")+'</span></div><h2>Upcoming matchups</h2>'+mu+
       (LIVE?'<button class="btn primary big" id="hSlate">Make tonight\'s picks</button>':'<p class="pending" style="margin:0">On game days, call these scores and wager on them for bonus Ball Knowledge.</p>')+'</div>';
-  $("hGo").onclick=()=>setTab("daily"); const hs=$("hSlate"); if(hs) hs.onclick=()=>setTab("slate");
+  const hg=$("hGo"); if(hg) hg.onclick=()=>setTab("daily"); const hs=$("hSlate"); if(hs) hs.onclick=()=>setTab("slate");
 }
 
 // ---- Leaderboard ----
@@ -858,14 +935,14 @@ function renderLeaderboard(){
   box.querySelectorAll(".lbseg button").forEach(b=>b.onclick=()=>{ lbView=b.dataset.v; renderLeaderboard(); });
   [...box.querySelectorAll("tbody tr")].forEach((tr,i)=>{ tr.children[1].textContent=top[i].h+(top[i].id===uid?" (you)":""); });
 }
-function renderSocial(){ renderHandle(); renderLeaderboard(); renderBoard(); if(tab==="home") renderHome(); else if(tab==="slate") renderCrowd(); else if(run.phase==="done"||run.phase==="reveal"){ const y=window.scrollY; renderDaily(); if(window.scrollTo) window.scrollTo({top:y}); } }
+function renderSocial(){ renderHandle(); renderLeaderboard(); renderBoard(); renderHome(); renderTicker(); if(tab==="slate") renderCrowd(); else if(run.phase==="done"||run.phase==="reveal"){ const y=window.scrollY; renderDaily(); if(window.scrollTo) window.scrollTo({top:y}); } }
 
 // ---- Boot ----
 $("foot").textContent="Questions, games, odds and records are real, from the "+DATA_AS_OF+" data feed and verified football history. Lines are DraftKings odds via ESPN.";
 $("tabHome").onclick=()=>setTab("home"); $("tabDaily").onclick=()=>setTab("daily");
 if(LIVE){ $("tabSlate").hidden=false; $("tabSlate").textContent="Slate ("+games.length+")"; $("tabSlate").onclick=()=>setTab("slate"); }
 if(run.phase==="question"&&Date.now()>run.deadline){ answer(null,true); }
-renderBoard(); renderHandle(); renderLeaderboard(); setTab(["category","question","reveal"].includes(run.phase)?"daily":"home");
+renderBoard(); renderHandle(); renderLeaderboard(); renderTicker(); setTab(["category","question","reveal"].includes(run.phase)?"daily":"home");
 if(LIVE) setInterval(()=>{ if(tab==="slate"&&games.some(x=>isLocked(x)&&$("in-a-"+x.id))) renderSlate(); },30000);
 })();
 </script>
